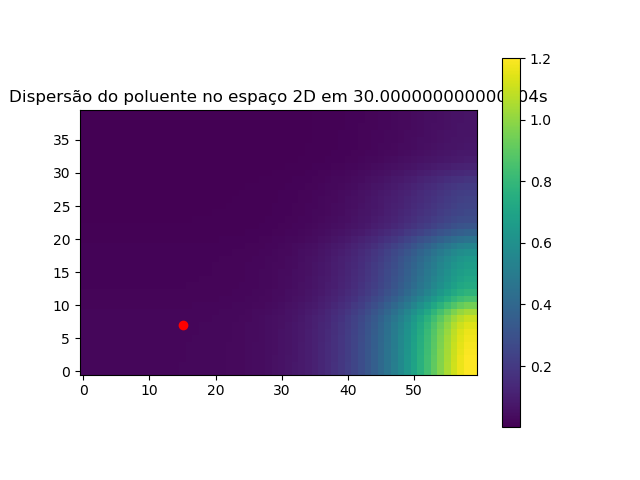
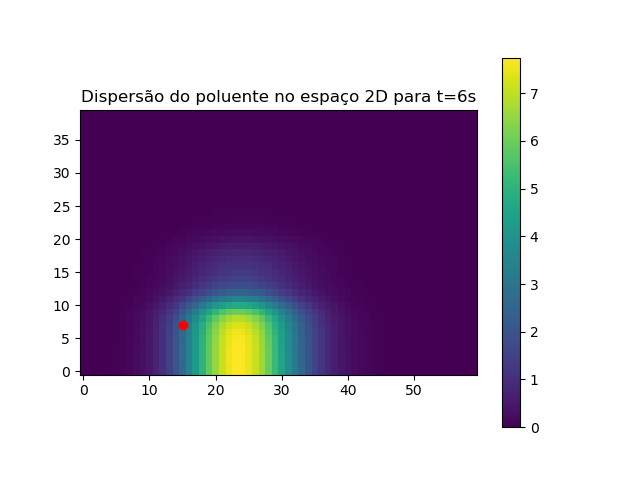
torangu hacked

diff --git a/burgers.py b/burgers.py
@@ -72,12 +72,11 @@ class Mcdonalds(object):
 
     def solve(self, matrix, tMax, a, b, Tdespejo, qc):
         list_t = np.arange(0, tMax, self.dt)
-        plt.title(f"Dispersão do poluente no espaço 2D em {list_t[-1]+self.dt}s")
+        plt.title(f"Dispersão do poluente no espaço 2D para t={tMax}s")
         for t in list_t:
             if t <= Tdespejo:
                 matrix[b][a] += qc * self.dt
             matrix = self.passo(matrix)
-            self.parserText(matrix)
         return matrix
 
     def parserText(self, matriz):
@@ -122,18 +121,17 @@ if grupo == 11:
     Q_ponto = 100 # kg/ms
     qc = Q_ponto / (dx * dy)
     Tderramamento = 3 #s
-    tMax = 10 * Tderramamento # s
+    tMax = 2 * Tderramamento # s
     a = int((grupo / 1.4) / dx)
     b = int((60 / (grupo + 5)) / dy)
-
 elif grupo == 5:
     # grupo 5
-    dx = 0.5
-    dy = 0.5
+    dx = 1
+    dy = 1
     dimensions = [30, 30]
-    dt = 0.05 #s
+    dt = 0.01 #s
     alpha = 1
-    k  = 1 # m^2/s
+    k = 10 # m^2/s
     Q_ponto = 80 # kg/ms
     qc = Q_ponto / (dx * dy)
     Tderramamento = 2 #s
